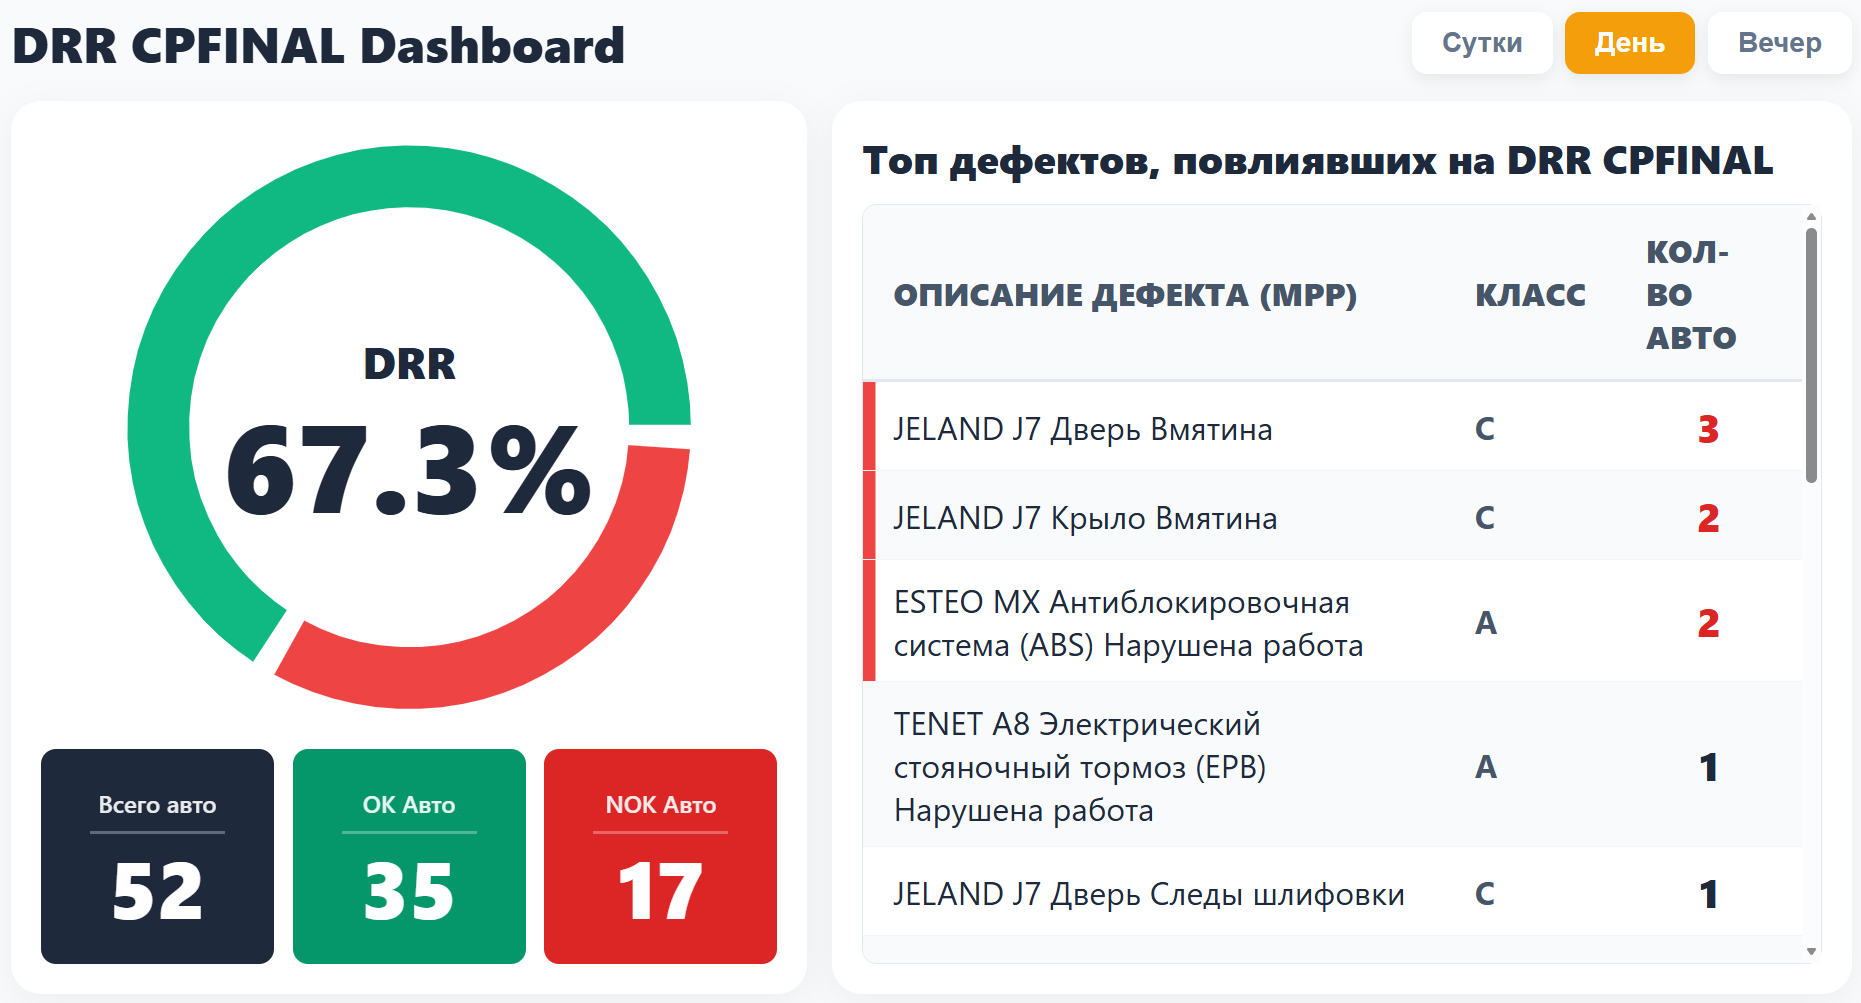
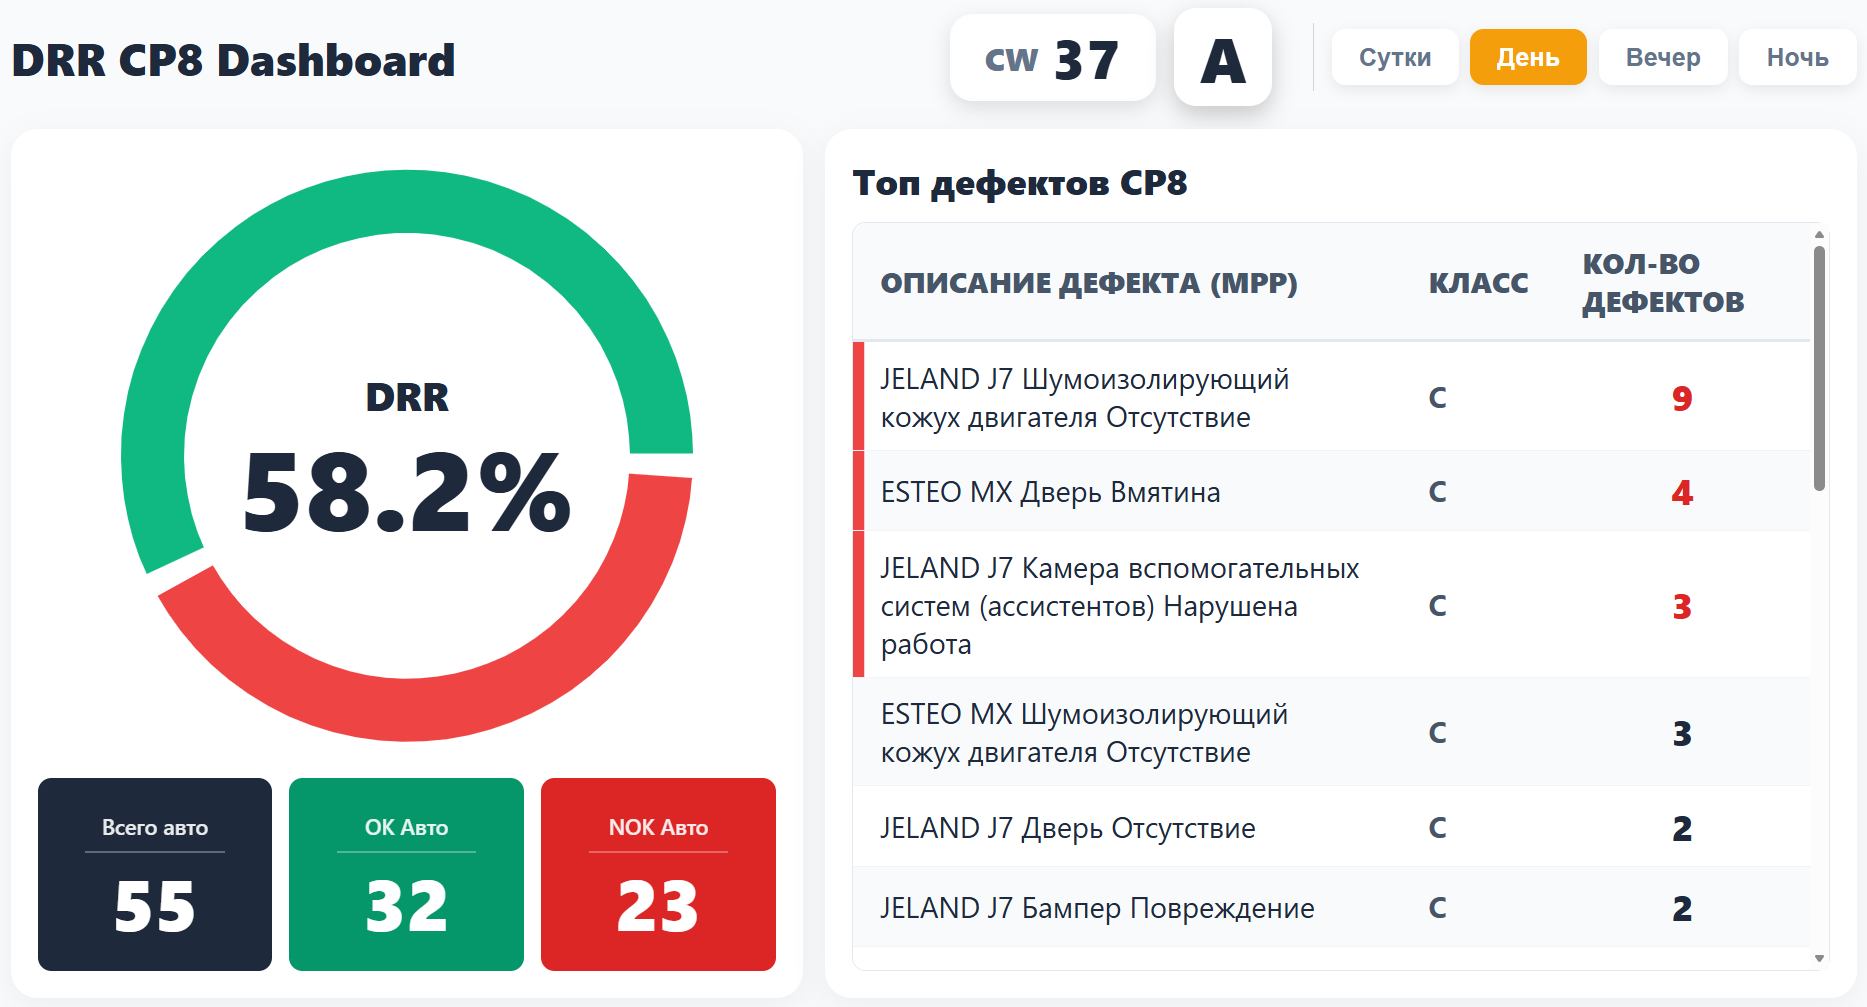
kjh

diff --git a/client/src/HomePage.jsx b/client/src/HomePage.jsx
@@ -19,7 +19,7 @@ import DrrCp7DashboardPage from './assets/cp7drr.png';
 import cp7historyPreview from './assets/cp7hist.png'; 
 import DrrCp8DashboardPage from './assets/cp8drr.png'; // замените на реальное имя файла
 import drrTestlinePreview from './assets/tldrr.png';
-import DrrPIPDashboardPage from './assets/tldrr.png'; // уже есть в файле
+import DrrPIPDashboardPage from './assets/drrpip.png'; // уже есть в файле
 import electronicsPreview from './assets/123.png'; // замените на реальное имя файла
 
 // ====== СТИЛИ ======
